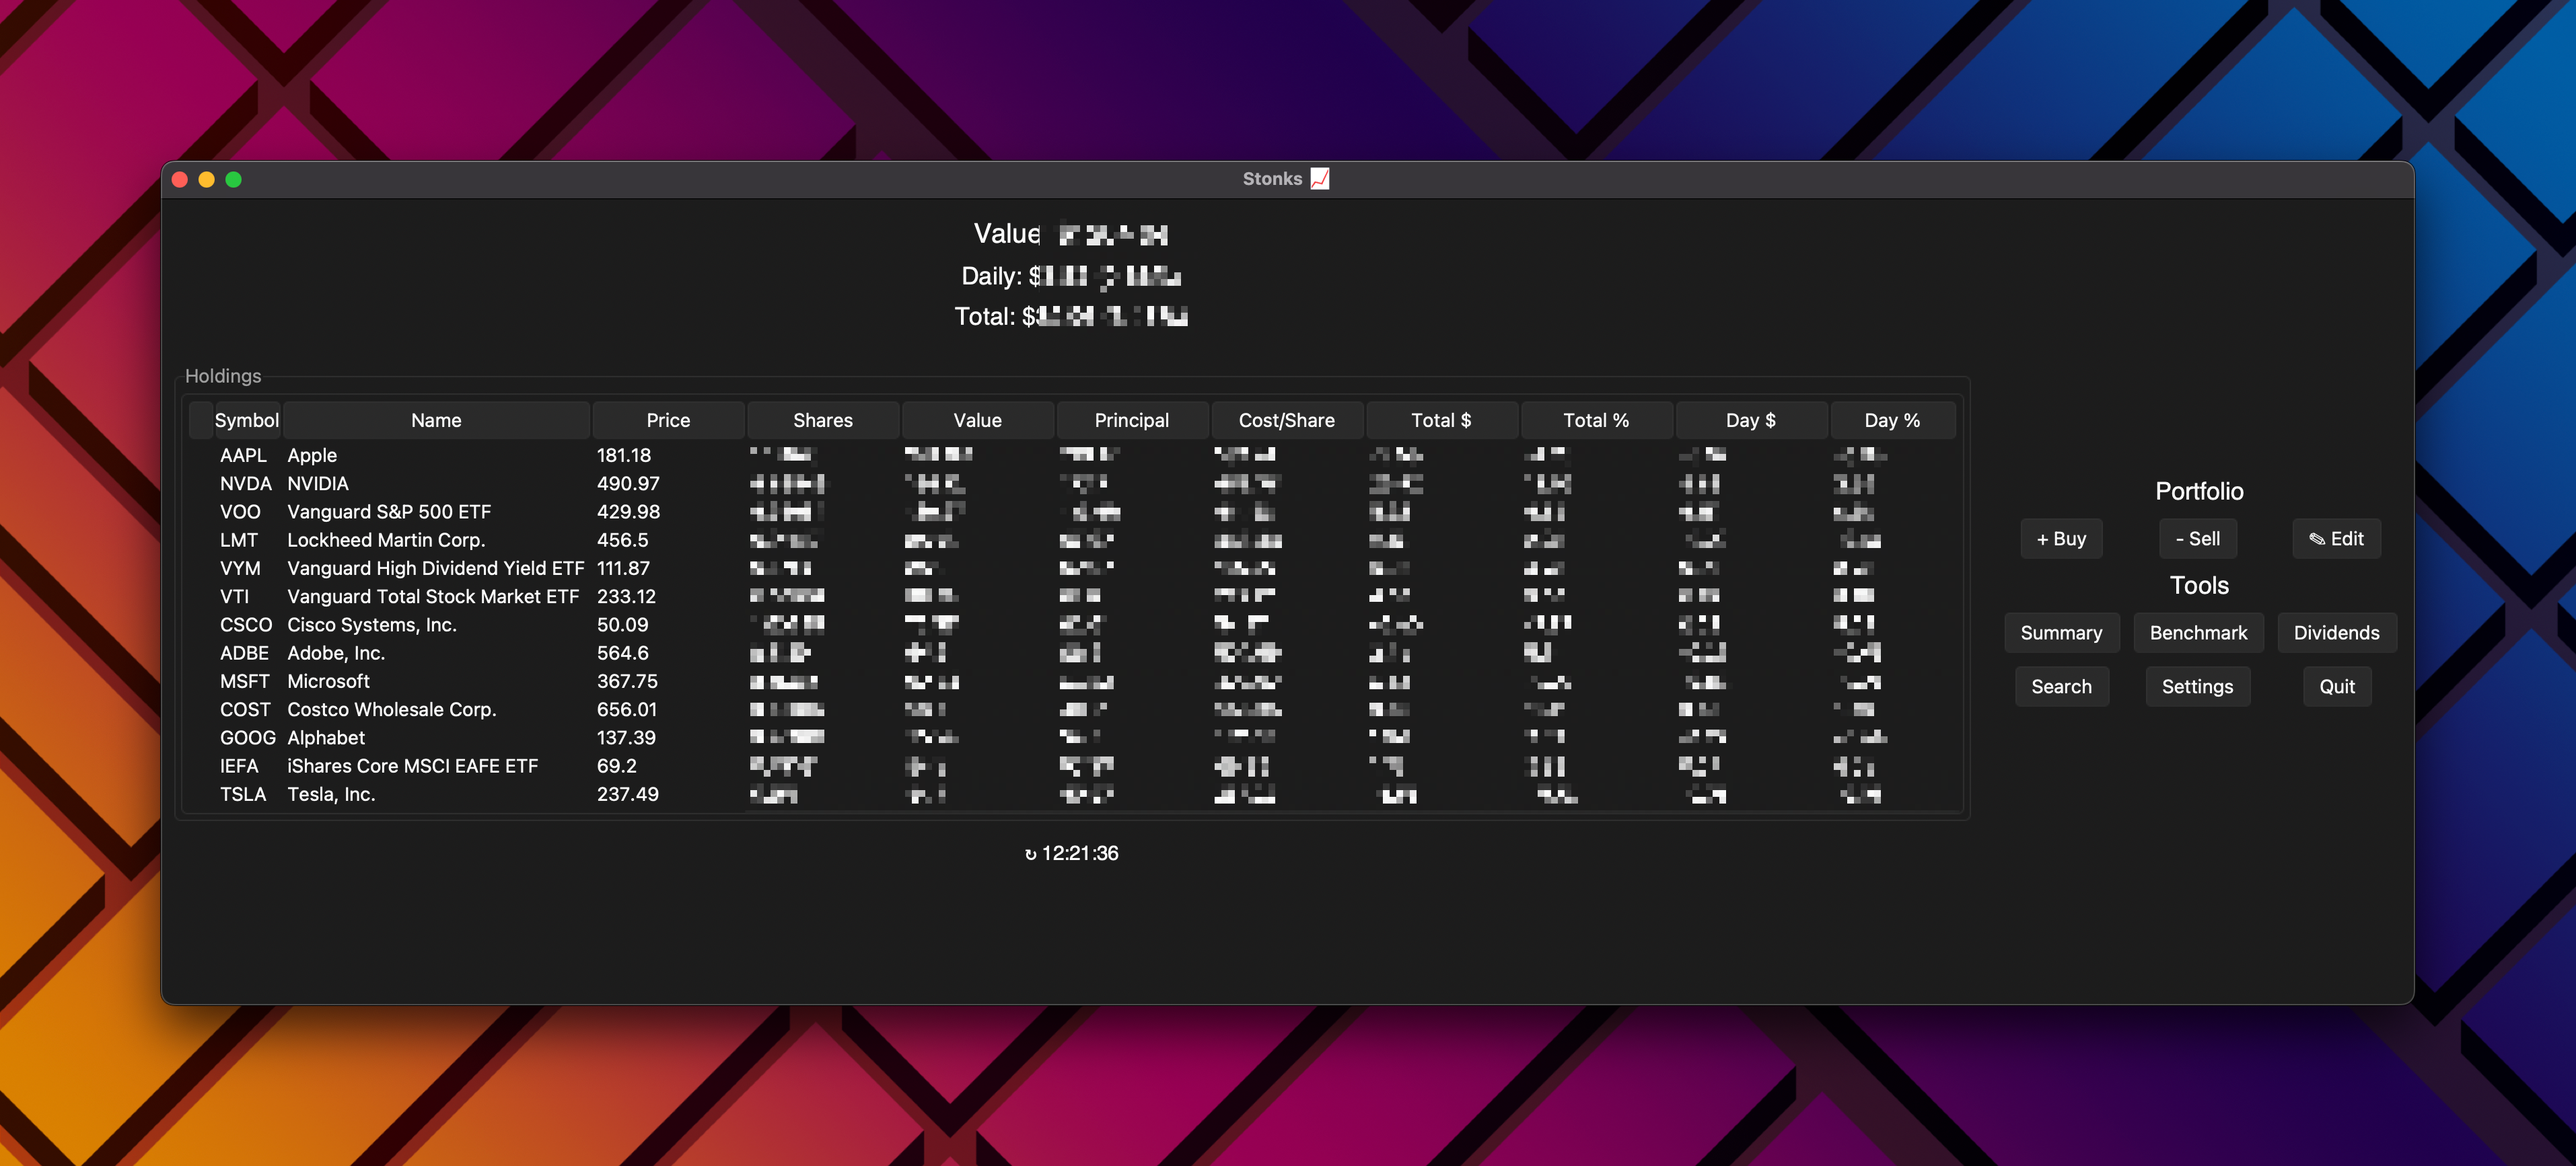
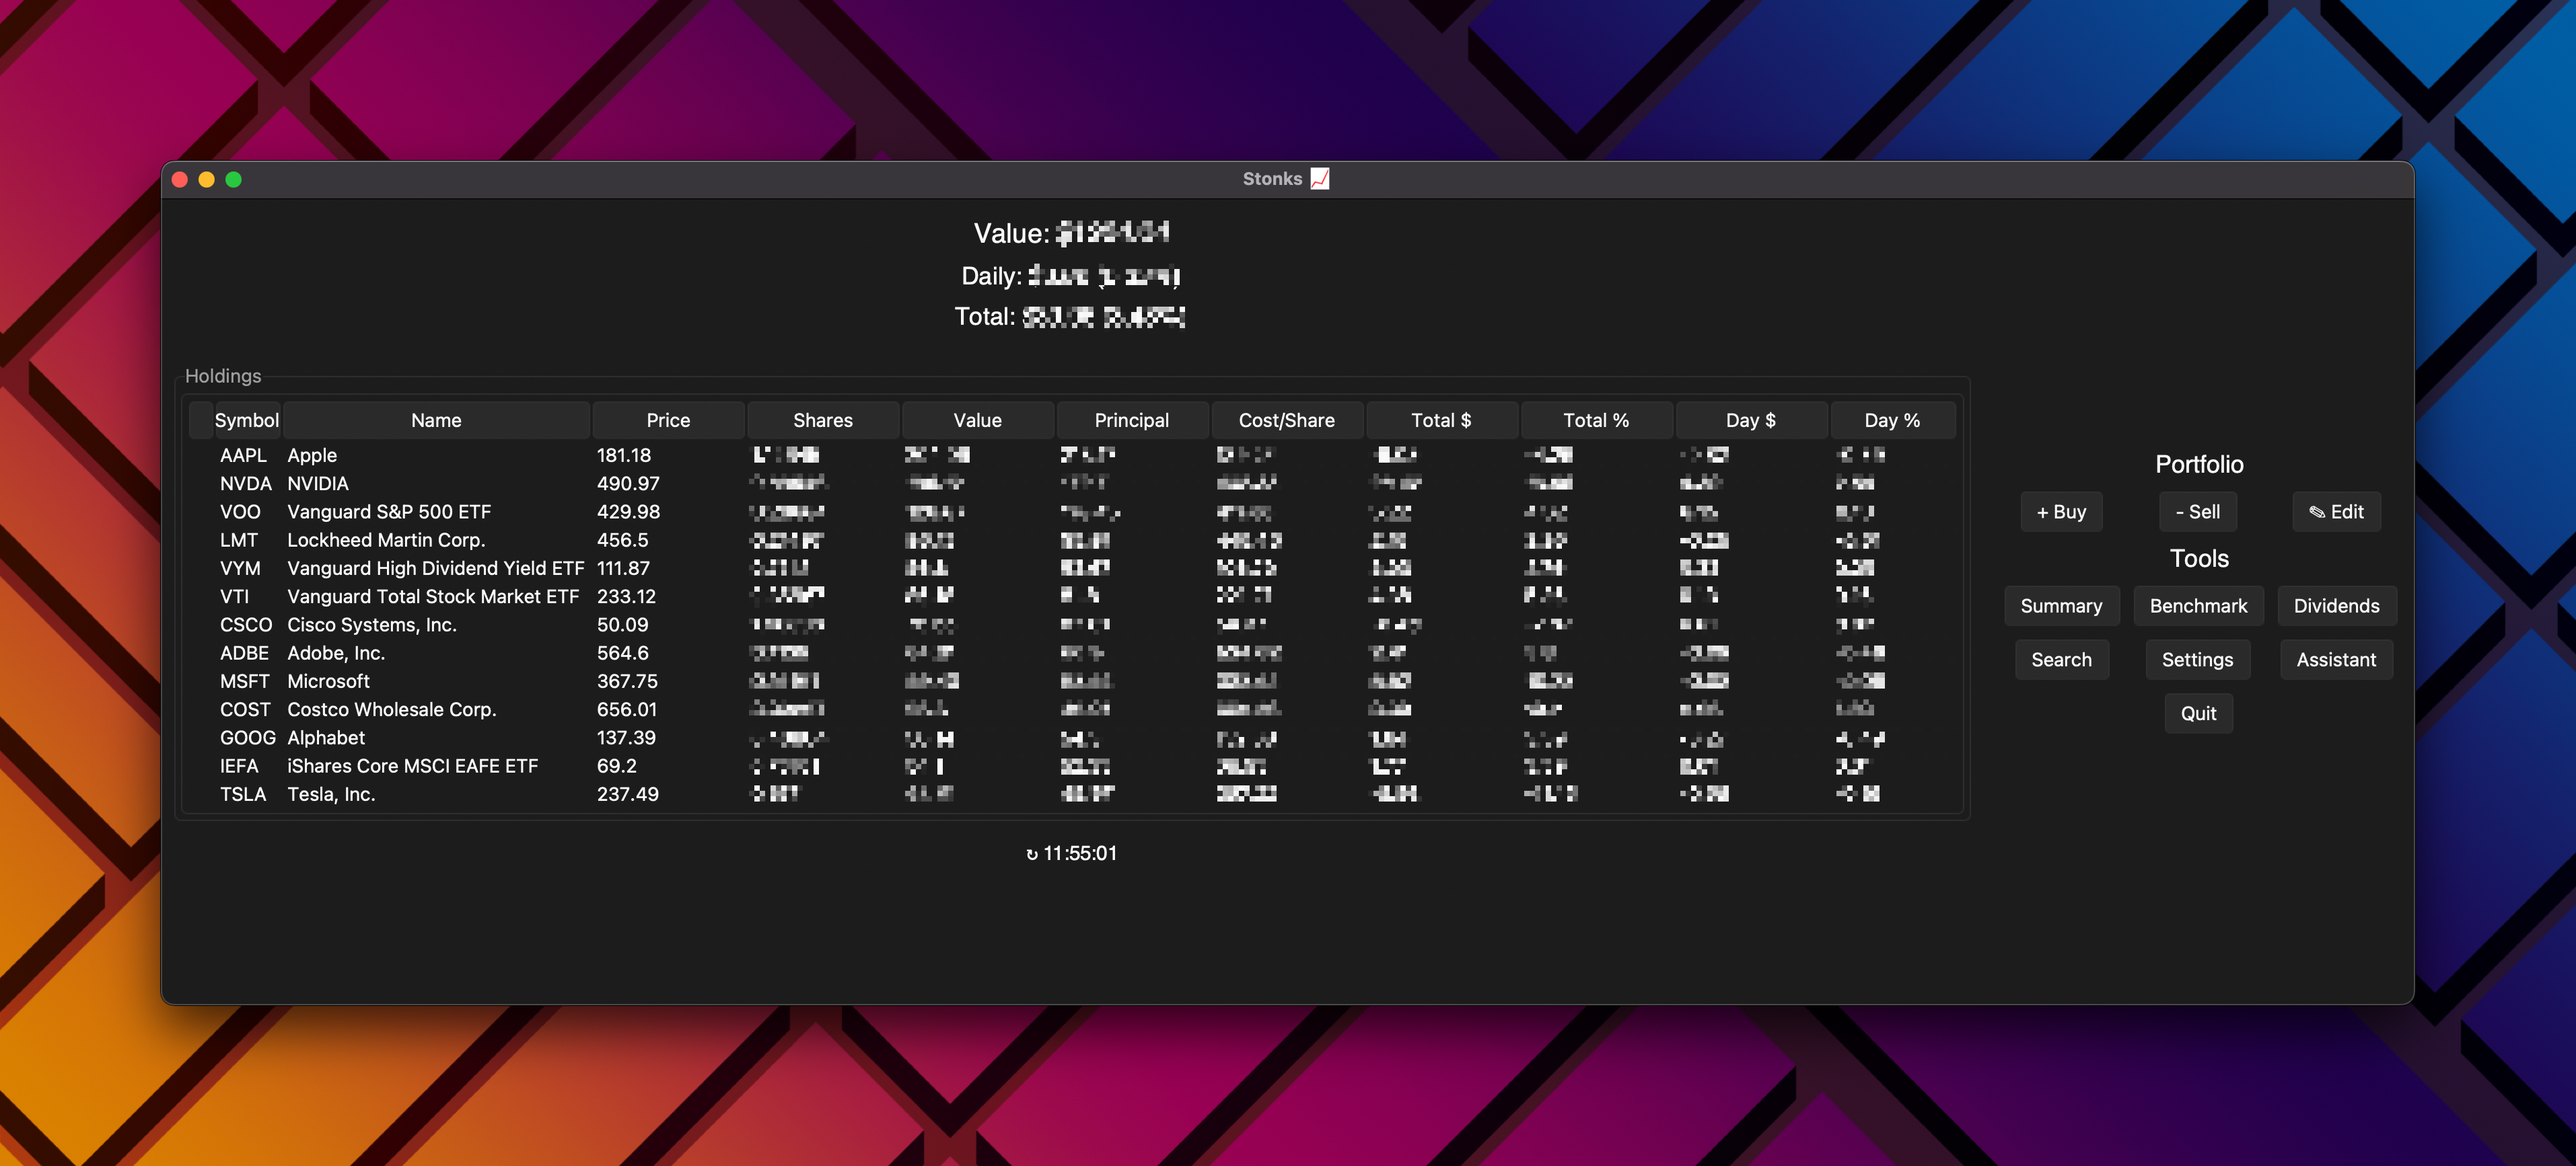
assistant release

diff --git a/README.md b/README.md
@@ -5,18 +5,23 @@
 # Quick Start
 1. Install dependencies:
    * Python 3
-     * pandas
-     * yfinance
-     * sv-ttk
-     * matplotlib
-2. Download [PortfolioTracker.pyw](https://github.com/teekar2023/StockTracker/blob/master/PortfolioTracker.pyw)
-3.  Run in terminal using `python3 PortfolioTracker.pyw`
+     * Run these commands in terminal
+     * `pip install pandas`
+     * `pip install yfinance`
+     * `pip install sv-ttk`
+     * `pip install matplotlib`
+2. Download [PortfolioTracker.pyw](https://github.com/teekar2023/StockTracker/blob/master/PortfolioTracker.pyw) to any folder
+3.  Navigate to folder and run `python PortfolioTracker.pyw`
 4. Configure your portfolio with the buttons
 
 # Features
+## Assistant
+### Get quick answers about your portfolio data
+![Assistant Prompt](resources/readme/assistant.png)
 ## Summary
 ### Allocation information, gain/loss insights, and more coming
 ![Summary Page](https://github.com/teekar2023/StockTracker/blob/master/resources/readme/summary_page.png?raw=true)
+![Sector Allocation](https://github.com/teekar2023/StockTracker/blob/master/resources/readme/sector_allocation.png?raw=true)
 ---
 ## Dividends
 ### Dividend yields, forecasts, and recently received dividends
@@ -29,9 +34,11 @@
 ## Options
 ### Customization, price alerts, and other settings
 ![Settings Page](https://github.com/teekar2023/StockTracker/blob/master/resources/readme/settings_page.png?raw=true)
+![Alerts Json File](https://github.com/teekar2023/StockTracker/blob/master/resources/readme/alerts_json.png?raw=true)
 
 # TODO
 * Stock specific graphs, news, and earnings information
 * Portfolio benchmark tool
 * Portfolio graphs in main window and summary window
 * ETF allocation analysis
+* Add ai assistant
